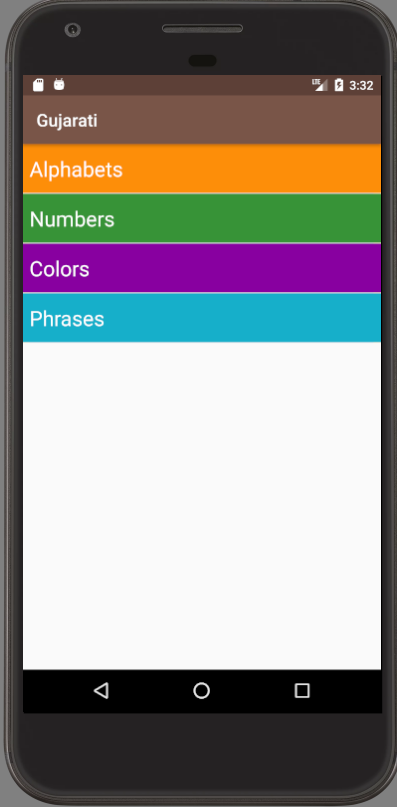
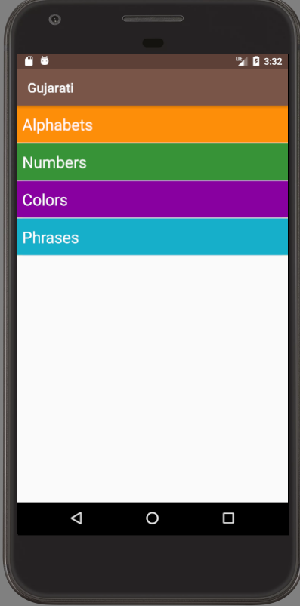
Added Screenshots and updated README

diff --git a/README.md b/README.md
@@ -5,7 +5,7 @@ It has different languages and each language has some basic categories like alph
 It has voice output for each language too.
 
 ## Screenshots
-<img src = "screenshots/languagepage.png">  <img src="screenshots/categorypage.png">  <img src="screenshots/categorycontent.png">
+<img src = "screenshots/languagepage.png" height="605">  <img src="screenshots/categorypage.png" height="605">  <img src="screenshots/categorycontent.png" height="605">
 
 ## How to launch the project locally 
 1. Download **[Android Studio](https://developer.android.com/studio/index.html)** from the Google Developers site or using this [link](https://developer.android.com/studio/index.html). 
